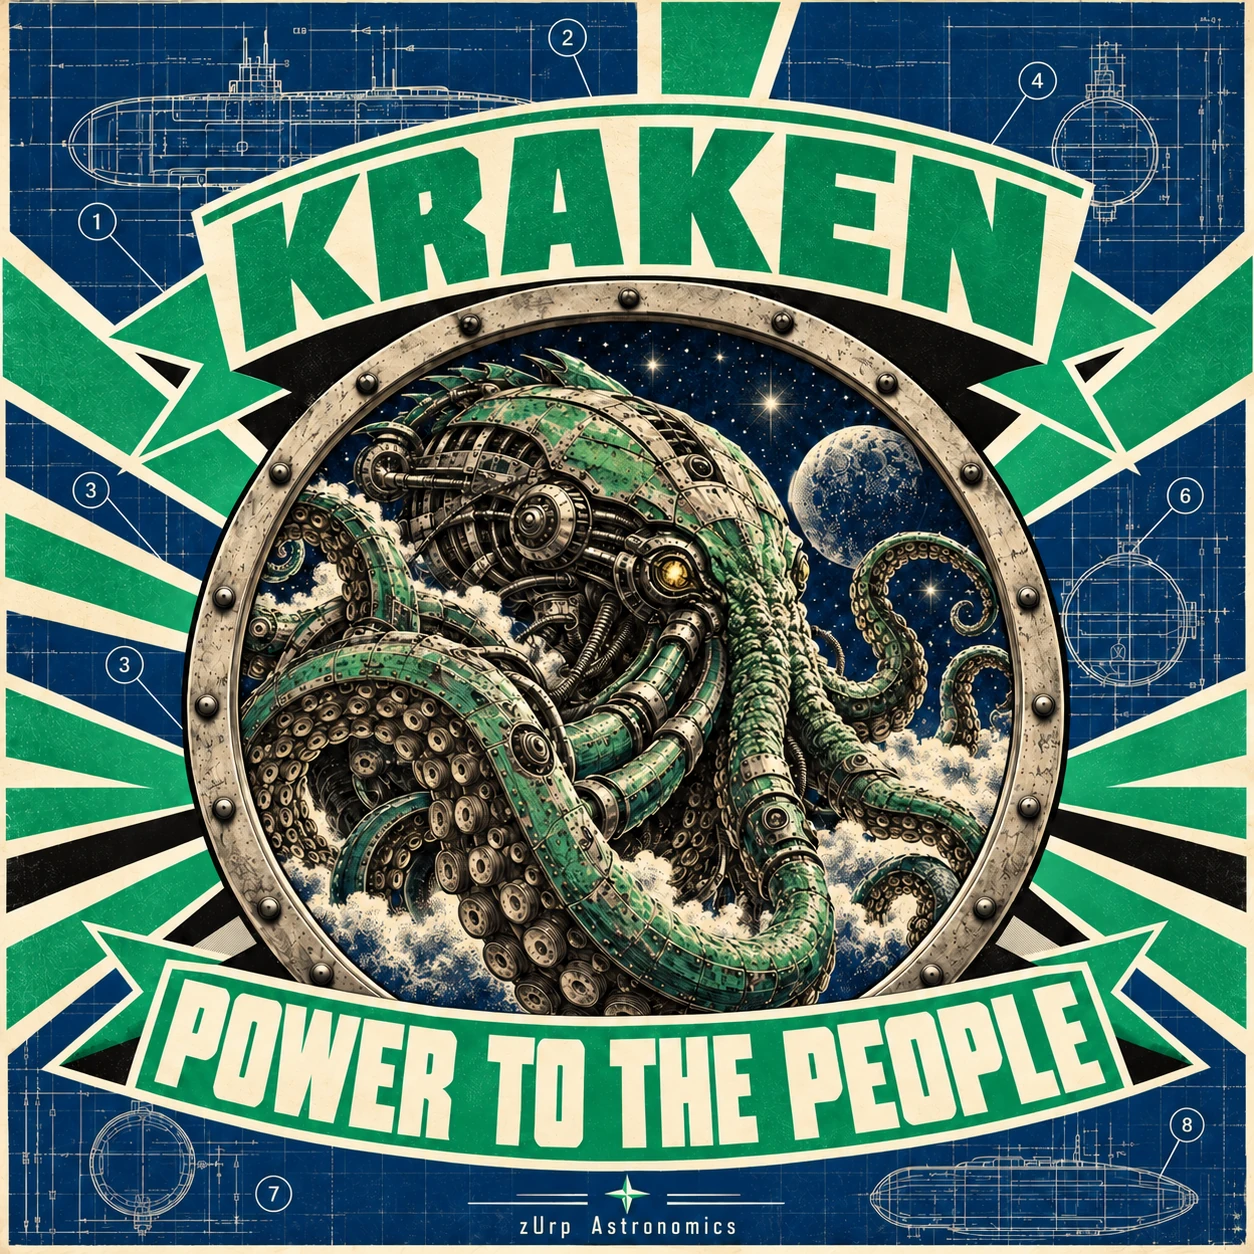
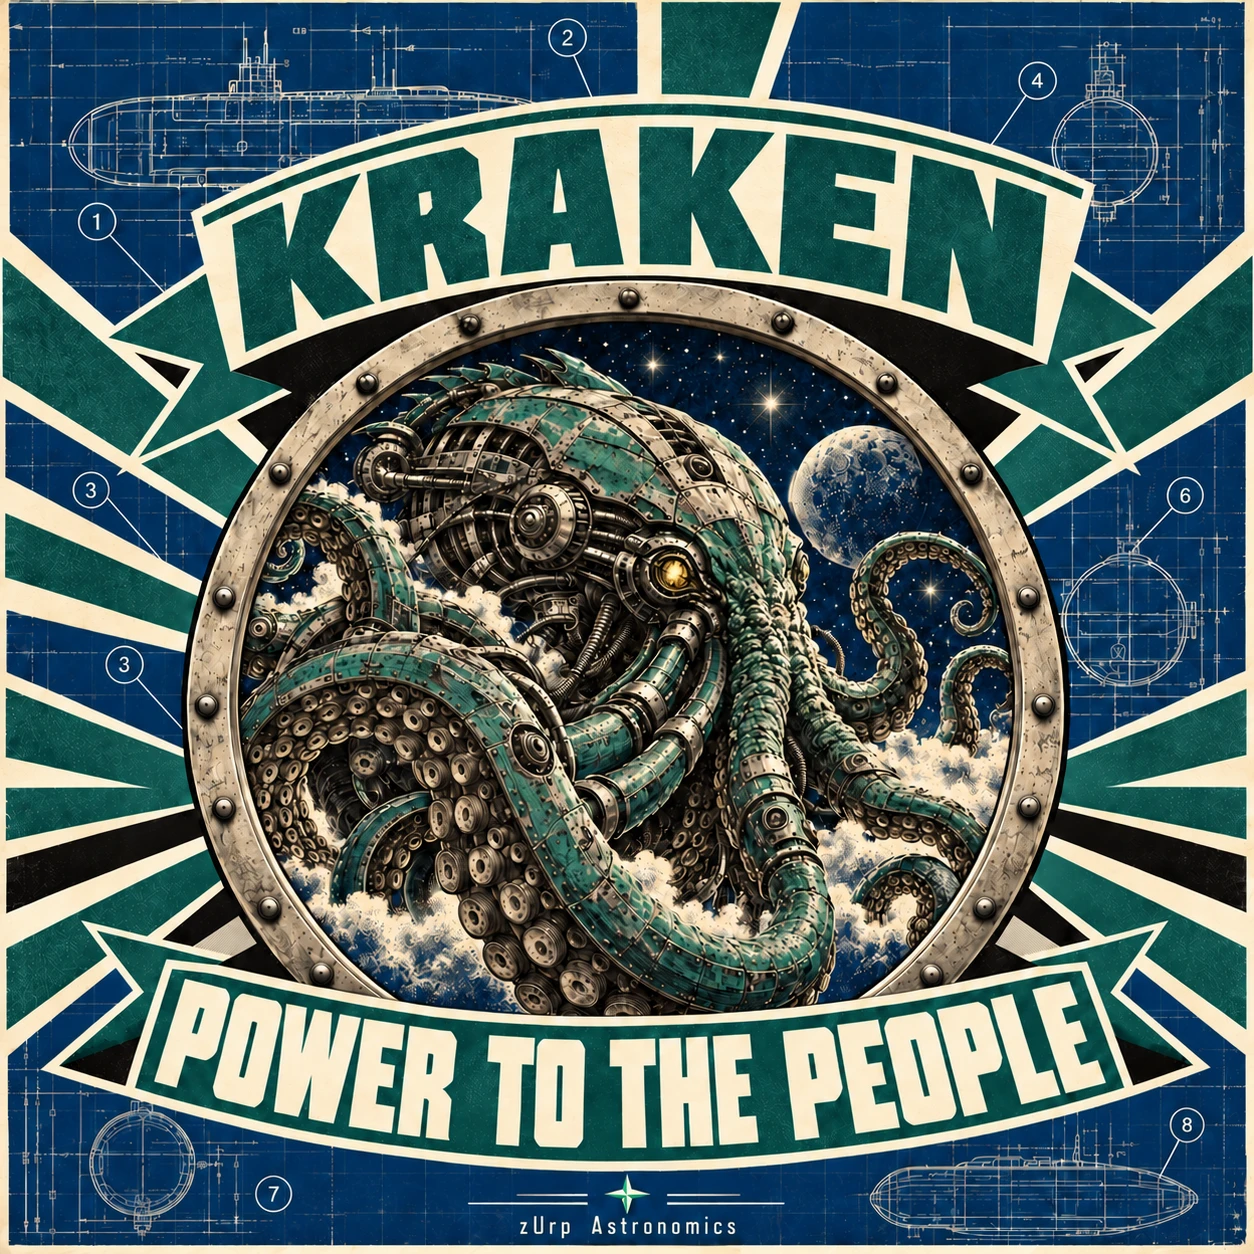
feat(posters): new Wraith, Berserker and Kraken posters (_1 versions)
- Replace wraith/berserker/kraken.webp with ready-room *_1.png, encoded
  like the other posters: lossy WebP q90, 1254x1254, RGB (calibrated by
  re-encoding the original PNGs: existing files sit between q89 and q90).
- Rewrite posterAlt: Wraith is now a hooded mechanical spectre ("Ghost in
  the sky"), Berserker a mechanical centaur archer ("Forward to the
  stars"); Kraken alt updated to teal / golden eye / moon.
- Kraken accent #0c8a58 -> #094a47: the banners moved from green (hue 156)
  to dark teal (hue 177), sampled with the method that reproduces the old
  accent. Wraith and Berserker accents unchanged.

Claude-Session: https://claude.ai/code/session_01NfQykajip2NR94g26Sdx3E

diff --git a/src/data/products.ts b/src/data/products.ts
@@ -62,7 +62,7 @@ export const products: Product[] = [
     ],
     poster: berserkerPoster,
     posterAlt:
-      'Berserker poster: an orange-plated mechanical lion with a fiery mane roars from a rocky peak in a riveted porthole against the stars, under the slogan “Forward to the stars, Monique!”.',
+      'Berserker poster: an orange-plated mechanical centaur archer with antlers and a mane of flames looses a laser arrow at the stars, its hooves on shattered rocks, in a riveted porthole, under the slogan “Forward to the stars”.',
     accent: '#f25a0a',
   },
   {
@@ -96,8 +96,8 @@ export const products: Product[] = [
     ],
     poster: krakenPoster,
     posterAlt:
-      'Kraken poster: a green mechanical kraken coils its riveted tentacles through the clouds in a porthole against the stars, under the slogan “Power to the people”.',
-    accent: '#0c8a58',
+      'Kraken poster: a teal mechanical kraken with a golden eye coils its riveted tentacles through the clouds in a porthole against the stars and a moon, under the slogan “Power to the people”.',
+    accent: '#094a47',
   },
   {
     slug: 'maelstrom',
@@ -129,7 +129,7 @@ export const products: Product[] = [
     ],
     poster: wraithPoster,
     posterAlt:
-      'Wraith poster: a ghostly steel-grey mechanical dragon dissolving into mist emerges from a riveted porthole against the stars, under the slogan “Soon, comrades”.',
+      'Wraith poster: a hooded steel-grey mechanical spectre with a glowing-eyed mask, a frame of gears and tubes, skeletal arms and floating armour plates dissolves into mist in a riveted porthole against the stars and a moon, under the slogan “Ghost in the sky”.',
     accent: '#8c8c8c',
   },
   {
